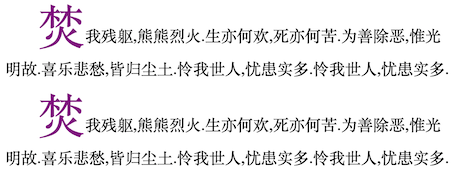
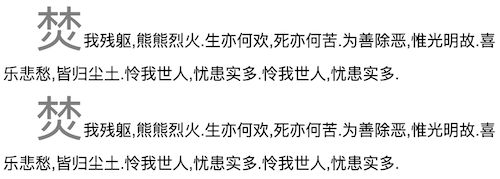
Semantic Ui 的 Behavior 和 Settings

diff --git a/source/_posts/fe-semantic-ui-behavior-settings.md b/source/_posts/fe-semantic-ui-behavior-settings.md
@@ -1,0 +1,128 @@
+---
+title: Semantic Ui 的 Behavior 和 Settings
+date: 2017-03-25 09:14:19
+tags: FE
+---
+
+学习 Semantic Ui 的时候，不少组件的文档里都有 behavior 和 settings，例如 Dimmer, Form Validation, Transition, Tab, Dropdown等，相信不少同学对 behavior 和 settings 应该怎么用摸不着头脑。
+
+Behavior 就是行为，和函数是一回事，写个函数不就好了？但是 Semantic Ui 里偏偏不这样，而是传入 behavior 的名字，然后内部去调用。
+
+Settings(设置) 更是不知道什么时候用啊，既然是设置，那么逻辑上就应该在 behavior 被调用之前先行设置好，这样在 behavior 被调用的时候才会生效，如果在 behavior 被调用后才使用 settings，那么就没有意义了。
+
+下面就以 card 中使用 dimmer 为例，介绍 behavior 和 settings 的使用:
+
+![](/img/fe/semantic-ui-card.png) <!--more-->
+
+```html
+<!DOCTYPE html>
+<html>
+
+<head>
+    <meta charset="utf-8">
+    <link href="http://cdn.staticfile.org/semantic-ui/2.2.7/semantic.min.css" rel="stylesheet">
+    <style media="screen">
+        body {
+            font-family: 'Arial';
+            padding: 50px;
+        }
+        .dimmer {
+            font-size: 12px;
+        }
+    </style>
+</head>
+
+<body>
+    <div class="ui two column grid">
+        <div class="ui column">
+            <div class="ui card" id="one">
+                <div class="ui image dimmerable">
+                    <img src="http://tupian.enterdesk.com/2016/gha/02/1902/02.jpg.200.150.jpg">
+                    <div class="ui dimmer">
+                        <div class="content">
+                            <div class="center">天之道，损有馀而补不足，是故虚胜实，不足胜有馀。其意博，其理奥，其趣深。天地之像分，阴阳之侯烈，变化之由表，死生之兆章。</div>
+                        </div>
+                    </div>
+                </div>
+                <div class="extra content">九阴真经</div>
+            </div>
+        </div>
+
+        <div class="ui column">
+            <div class="ui card" id="two">
+                <div class="ui image dimmerable">
+                    <img src="http://tupian.enterdesk.com/2015/gha/12/1202/02.jpg.200.150.jpg">
+                    <div class="ui dimmer">
+                        <div class="content">
+                            <div class="center">运气导行、移宫使劲的法门，悟性高者7年可成，差一点的14年才能练成。</div>
+                        </div>
+                    </div>
+                </div>
+                <div class="extra content">乾坤大挪移</div>
+            </div>
+        </div>
+
+        <script src="http://cdn.bootcss.com/jquery/1.9.1/jquery.min.js"></script>
+        <script src="http://cdn.staticfile.org/semantic-ui/2.2.7/semantic.min.js"></script>
+        <script>
+            // 鼠标进入 dimmerable 上时显示 dimmer
+            $(document).on('mouseenter', '.ui.dimmerable', function() {
+                $('.ui.dimmer', this).dimmer('show');
+            });
+
+            // 鼠标离开 dimmerable 上时隐藏 dimmer
+            $(document).on('mouseleave', '.ui.dimmerable', function() {
+                $('.ui.dimmer', this).dimmer('hide');
+            });
+
+        </script>
+</body>
+
+</html>
+```
+
+页面显示时 dimmer 是隐藏起来的，当鼠标鼠标进入 dimmerable 上时响应 mouseenter 事件显示 dimmer: `$('.ui.dimmer', this).dimmer('show')`，其中 **show** 就是 dimmer 的 behavior（show 和 hide 是很多组件默认的 behavior），望文生义，使用 behavior `dimmer('hide')` 就是隐藏 dimmer，这就是 behavior 的使用。Dimmer 的 behavior 通过 **dimmer()** 函数来调用，Dropdown 的 behavior 通过 **dropdown()** 函数来调用，具体的参考帮助文档。
+
+不过上面显示和隐藏 dimmer 的动画效果有些单调，阅读 dimmer 的帮助文档，可以看到 Settings 中有 transition（动画效果），不过 dimmer 文档的 Definition, Examples, Usage, Settings 中找遍了都没有看到介绍 transition 怎么使用呢。如果想用 drop 的动画效果显示 dimmer 应该怎么办呢？
+
+```js
+$('.ui.dimmer', this).dimmer({transition: 'drop'}).dimmer('show');
+```
+
+上面的代码就是 settings 的使用，大家有没有注意到，settings 是一个 JSON 对象，作为 `dimmer()` 函数的参数，虽然 behavior 使用的时候也是使用 `dimmer()` 函数，但是参数是一个字符串，虽然函数是同一个，但通过参数的类型来判断使用的是 settings 还是 behavior。
+
+**Settings 有 2 种使用方式，局部的设置和全局的设置:**
+
+* **局部设置:** 上面的例子中就是使用了局部的 settings，只会对选择器匹配的元素生效，局部设置会覆盖全局设置。如下的代码分别对 **#one** 和 **#two** 中的 dimmer 使用不同的 settings:
+
+  ```js
+  $(document).on('mouseenter', '#one .ui.dimmerable', function() {
+      $('.ui.dimmer', this).dimmer({
+          transition: 'drop',
+          duration: 800,
+          opacity: 0.2
+      }).dimmer('show');
+  });
+
+  $(document).on('mouseenter', '#two .ui.dimmerable', function() {
+      $('.ui.dimmer', this).dimmer({
+          transition: 'scale',
+          duration: 200
+      }).dimmer('show');
+  });
+  ```
+
+* **全局设置:** 使用 `$.fn.dimmer.settings` 进行 dimmer 的全局设置:
+
+  ```js
+  $.fn.dimmer.settings.transition = 'vertical flip';
+  $.fn.dimmer.settings.opacity = 0.3;
+  $.fn.dimmer.settings.duration = 800;
+
+  // 鼠标进入 dimmerable 上时显示 dimmer
+  $(document).on('mouseenter', '.ui.dimmerable', function() {
+      $('.ui.dimmer', this).dimmer('show');
+  });
+  ```
+
+到此相信大家对 behavior 和 settings 的使用已经掌握的差不多了，至于每个组件都有哪些 behavior 和 settings，就需要大家花时间去阅读 Semantic Ui 的帮助文档了。

diff --git a/source/_posts/fe-first-letter.md b/source/_posts/fe-first-letter.md
@@ -13,15 +13,15 @@ tags: FE
 <head>
     <meta charset="utf-8">
     <style media="screen">
-      	/* 首字母缩进 */
+        body {
+            font-family: 'Arial'
+        }
         div {
             text-indent: 2em;
         }
-      
-        /* 首字母样式 */
         div:first-letter {
             font-size: 3em;
-            color: purple;
+            color: gray;
         }
     </style>
 </head>
